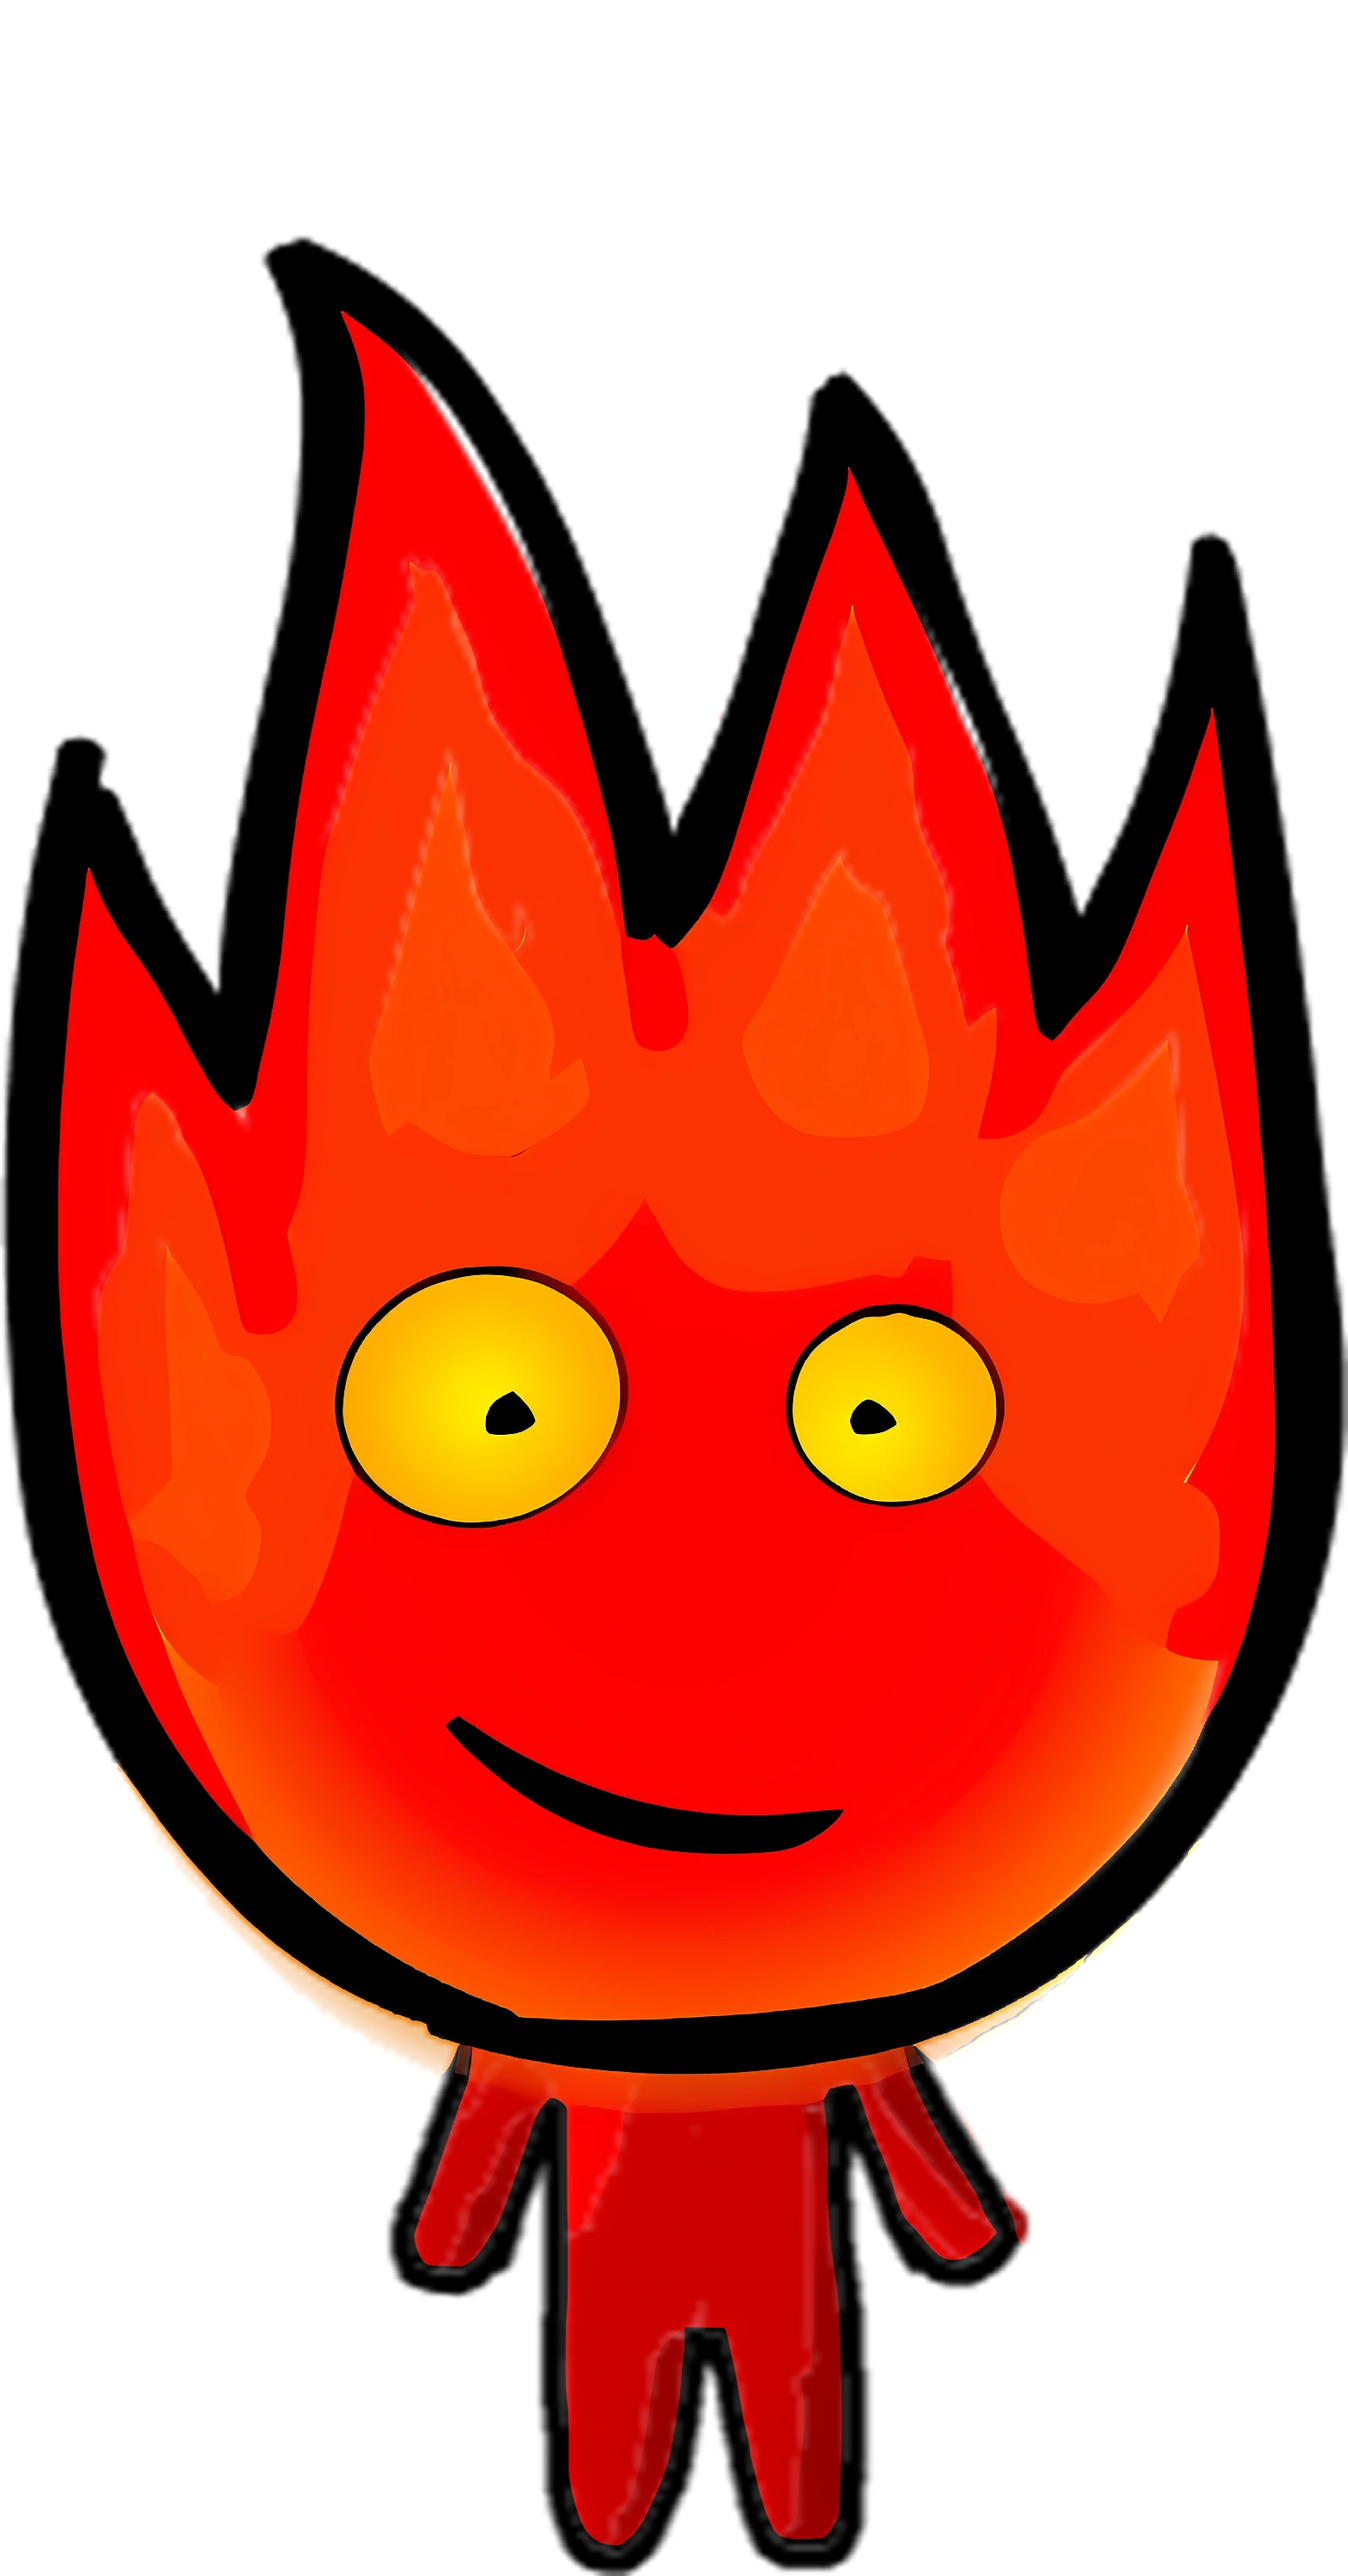
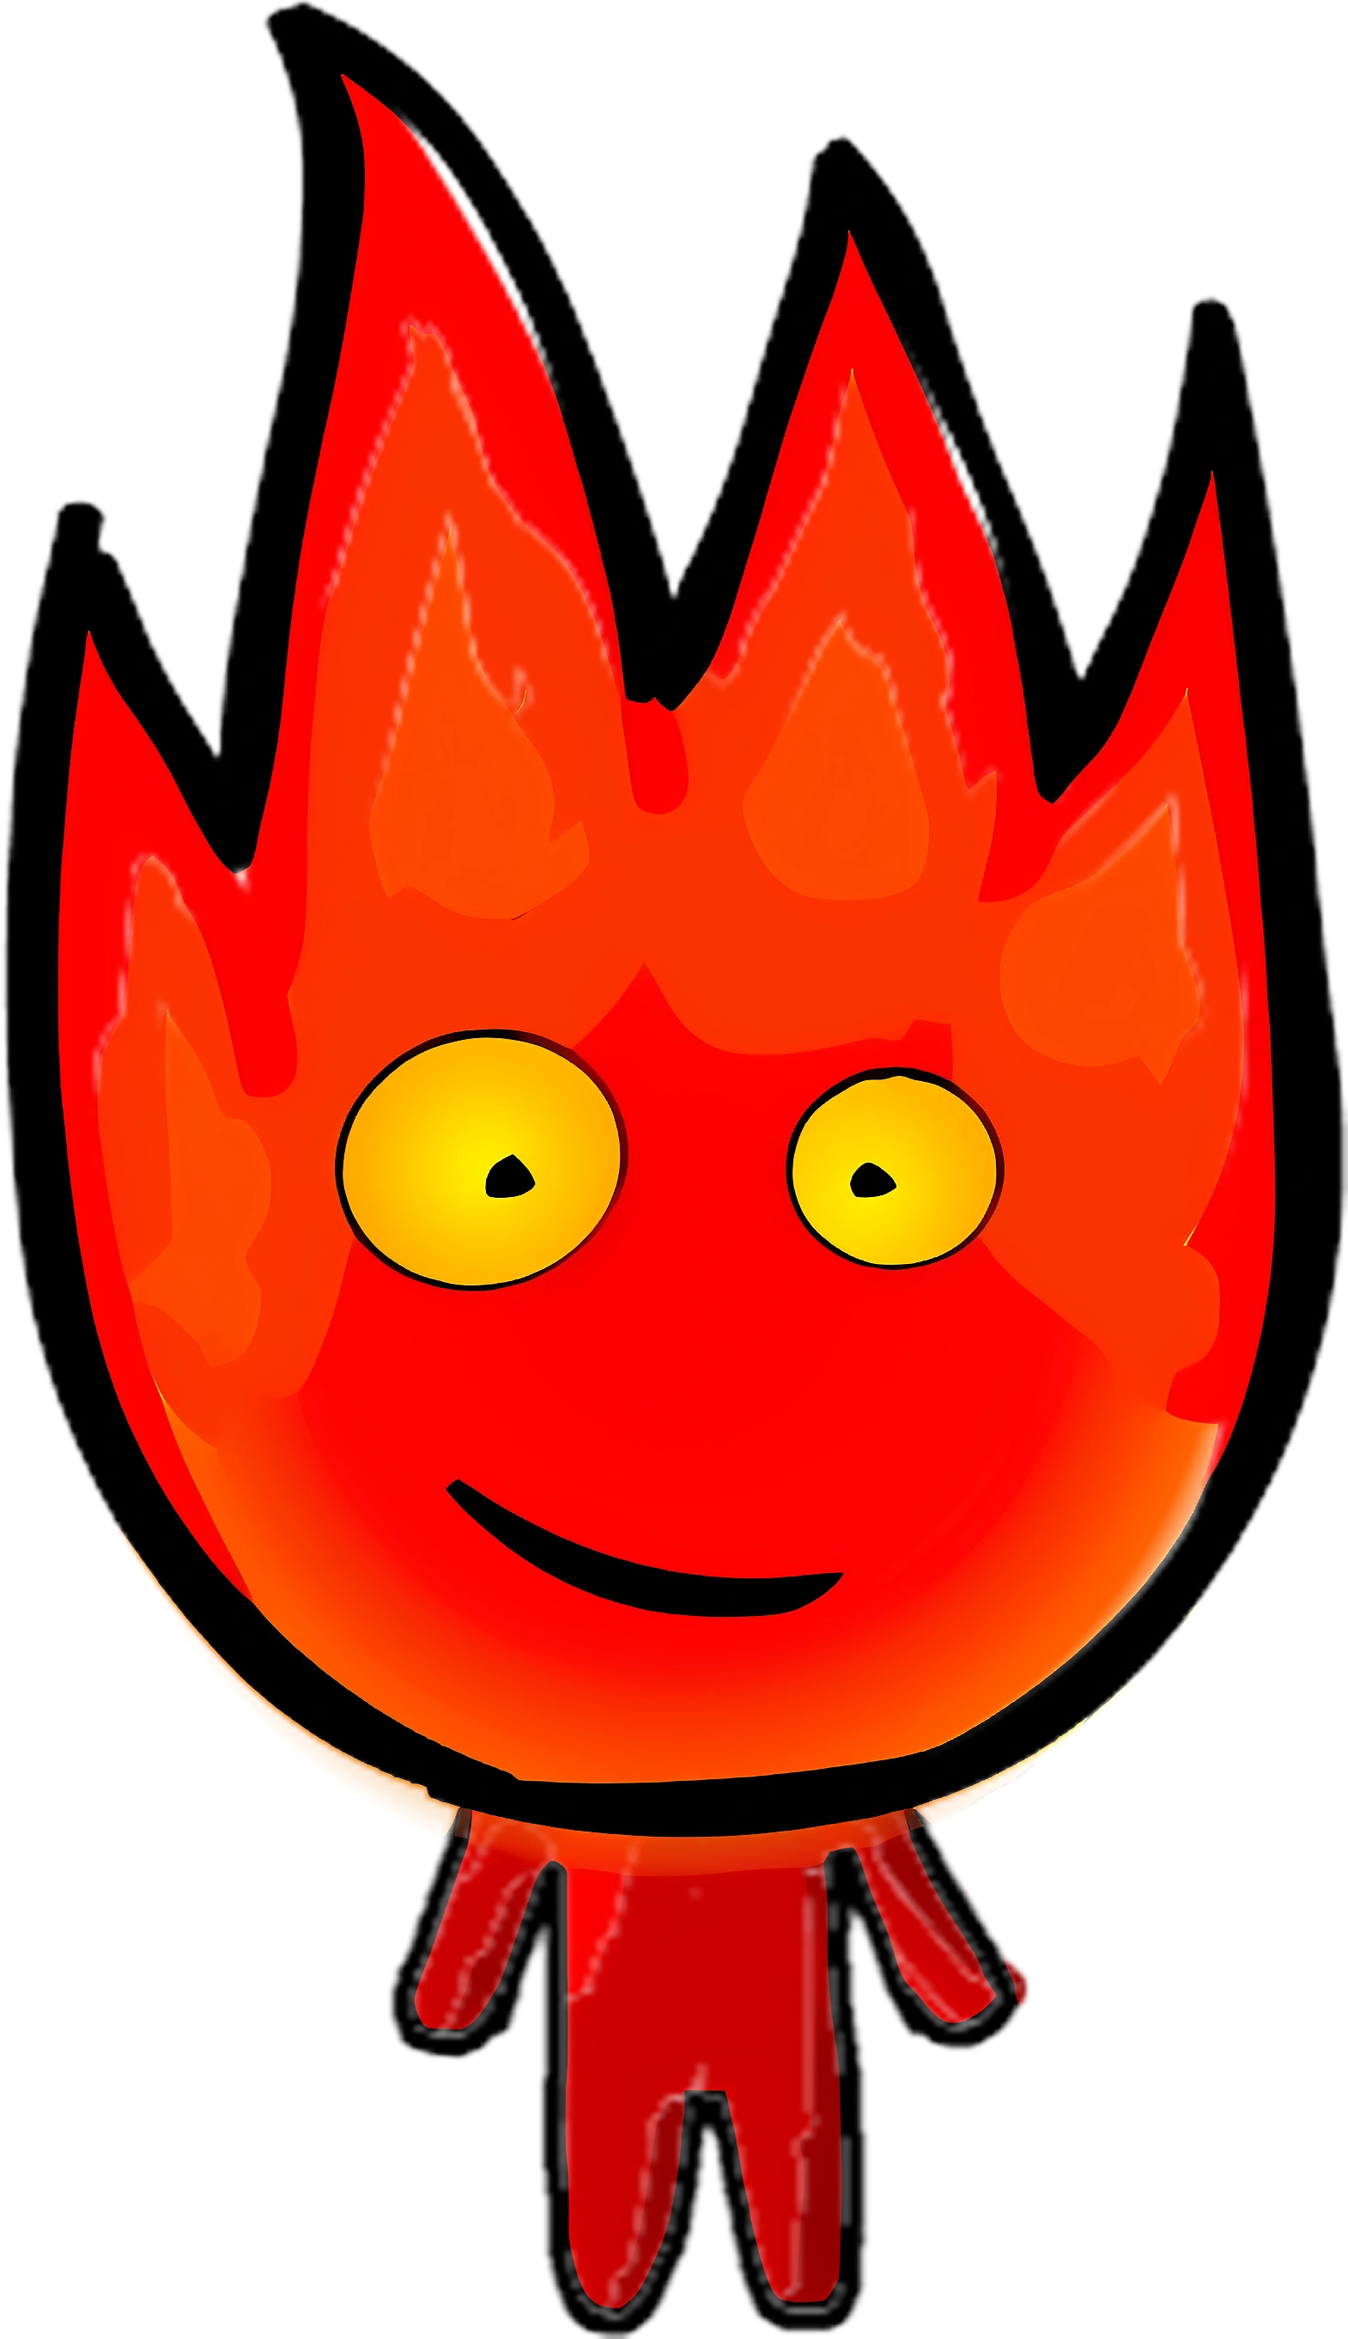
Physics added

diff --git a/main.py b/main.py
@@ -16,6 +16,12 @@ WATER_COLOR = (0, 0, 255)
 GROUND_COLOR = (200, 200, 200)
 WALL_COLOR = (120, 85, 50)
 
+# Physics constants
+GRAVITY = 0.3
+JUMP_HEIGHT_TILES = 4.5  # Desired jump height in tiles
+JUMP_STRENGTH = -(2 * GRAVITY * (JUMP_HEIGHT_TILES * TILE_SIZE))**0.5
+TERMINAL_VELOCITY = 5
+
 # Load images
 fireboy_image = pygame.image.load("resources/pngs/Fireboy-0.png")
 watergirl_image = pygame.image.load("resources/pngs/Watergirl2-0.png")
@@ -28,8 +34,8 @@ tile_image = pygame.image.load("resources/pngs/tile.png")
 background_image = pygame.image.load("resources/pngs/level_background.png")
 
 # Scale images
-fireboy_image = pygame.transform.scale(fireboy_image, (40,60))
-watergirl_image = pygame.transform.scale(watergirl_image, (40,60))
+fireboy_image = pygame.transform.scale(fireboy_image, (35,50))
+watergirl_image = pygame.transform.scale(watergirl_image, (35,50))
 lava_image = pygame.transform.scale(lava_image, (5 * TILE_SIZE, TILE_SIZE))
 water_image = pygame.transform.scale(water_image, (5 * TILE_SIZE, TILE_SIZE))
 green_stuff_image = pygame.transform.scale(green_stuff_image, (5 * TILE_SIZE, TILE_SIZE))
@@ -37,7 +43,6 @@ exit_fire_image = pygame.transform.scale(exit_fire_image, (2.5 * TILE_SIZE, 3 *T
 exit_water_image = pygame.transform.scale(exit_water_image, (2.5 * TILE_SIZE, 3 *TILE_SIZE))
 tile_image = pygame.transform.scale(tile_image, (TILE_SIZE, TILE_SIZE))
 background_image = pygame.transform.scale(background_image, (SCREEN_WIDTH, SCREEN_HEIGHT))
-
 
 # Create game screen
 screen = pygame.display.set_mode((SCREEN_WIDTH, SCREEN_HEIGHT))
@@ -55,13 +60,16 @@ def load_levels(filename):
 levels = load_levels("resources/levels.txt")
 current_level = 0
 
-
 # Draw level
 def draw_level(level, fireboy, watergirl):
+    hazard_positions = []  # Keep track of hazard positions and their full width
     for row_index, row in enumerate(level):
-        for col_index, tile in enumerate(row):
+        col_index = 0
+        while col_index < len(row):
+            tile = row[col_index]
             x = col_index * TILE_SIZE
             y = row_index * TILE_SIZE
+
             if tile == "#":
                 screen.blit(tile_image, (x, y))
             elif tile == "F":
@@ -72,83 +80,191 @@ def draw_level(level, fireboy, watergirl):
                 if watergirl.x == 0 and watergirl.y == 0:
                     watergirl.x = x
                     watergirl.y = y
-            elif tile == "L":
-                screen.blit(lava_image, (x, y))
-            elif tile == "O":
-                screen.blit(water_image, (x, y))
-            elif tile == "G":
-                screen.blit(green_stuff_image, (x, y))
+            elif tile in "LOG":  # Lava, Water, or Green stuff
+                image = None
+                if tile == "L":
+                    image = lava_image
+                elif tile == "O":
+                    image = water_image
+                elif tile == "G":
+                    image = green_stuff_image
+
+                screen.blit(image, (x, y))
+                hazard_positions.append((x, y, tile, 5 * TILE_SIZE))
+                col_index += 4  # Skip the next 4 tiles
             elif tile == "$":
                 screen.blit(exit_fire_image, (x, y + 5))
             elif tile == "%":
                 screen.blit(exit_water_image, (x, y + 5))
 
-    #Draw characters
-    screen.blit(fireboy_image, (fireboy.x, fireboy.y))
-    screen.blit(watergirl_image, (watergirl.x, watergirl.y))
+            col_index += 1
+    return hazard_positions
+
+
+class Player:
+    def __init__(self, x, y, width, height, image, element_type):
+        self.rect = pygame.Rect(x, y, width, height)
+        self.x = x
+        self.y = y
+        self.dx = 0  # Horizontal velocity
+        self.dy = 0  # Vertical velocity
+        self.image = image
+        self.element_type = element_type  # "fireboy" or "watergirl"
+        self.on_ground = False  # To check if player is on the ground or platform
+
+    def move(self, level):
+        """Apply movement and collisions."""
+        self.rect.x += self.dx  # Apply horizontal movement
+        self.on_ground = False  # Reset on_ground flag at the start of the move
+
+        # Check for horizontal collisions with all tiles
+        for row_index, row in enumerate(level):
+            for col_index, tile in enumerate(row):
+                if tile == "#":  # Solid tile
+                    tile_rect = pygame.Rect(col_index * TILE_SIZE, row_index * TILE_SIZE, TILE_SIZE, TILE_SIZE)
+                    if self.rect.colliderect(tile_rect):  # Horizontal collision
+                        if self.dx > 0:  # Moving right
+                            self.rect.right = tile_rect.left
+                        elif self.dx < 0:  # Moving left
+                            self.rect.left = tile_rect.right
+
+        # Apply gravity and vertical movement
+        self.dy += GRAVITY
+        if self.dy > TERMINAL_VELOCITY:
+            self.dy = TERMINAL_VELOCITY
+        self.rect.y += self.dy
+
+        # Vertical collision (ground and liquid collisions)
+        for row_index, row in enumerate(level):
+            col_index = 0
+            while col_index < len(row):
+                tile = row[col_index]
+                x = col_index * TILE_SIZE
+                y = row_index * TILE_SIZE
+
+                if tile == "#":
+                    tile_rect = pygame.Rect(x, y, TILE_SIZE, TILE_SIZE)
+                    if self.rect.colliderect(tile_rect):
+                        if self.dy > 0:  # Falling
+                            self.rect.bottom = tile_rect.top
+                            self.dy = 0
+                            self.on_ground = True
+                        elif self.dy < 0:  # Jumping
+                            self.rect.top = tile_rect.bottom
+                            self.dy = 0
+                elif tile in "LOG":  # Handle hazards as 5-tile-wide platforms
+                    hazard_rect = pygame.Rect(x, y, 5 * TILE_SIZE, TILE_SIZE)
+                    if self.rect.colliderect(hazard_rect):
+                        if tile == "O" and self.element_type == "watergirl":  # Watergirl can stand on water
+                            if self.dy > 0:
+                                self.rect.bottom = hazard_rect.top
+                                self.dy = 0
+                                self.on_ground = True
+                            elif self.dy < 0:
+                                self.rect.top = hazard_rect.bottom
+                                self.dy = 0
+                        elif tile == "L" and self.element_type == "fireboy":  # Fireboy can stand on lava
+                            if self.dy > 0:
+                                self.rect.bottom = hazard_rect.top
+                                self.dy = 0
+                                self.on_ground = True
+                            elif self.dy < 0:
+                                self.rect.top = hazard_rect.bottom
+                                self.dy = 0
+                        elif tile == "G":
+                            if self.dy < 0:
+                                self.rect.top = hazard_rect.bottom
+                                self.dy = 0
+                    col_index += 4  # Skip the next 4 tiles since we handled the full width
+                col_index += 1
+
+        return self.on_ground
+
+    def jump(self):
+        """Make the player jump."""
+        if self.on_ground:  # Only allow jump when on the ground
+            self.dy = JUMP_STRENGTH
+
+    def check_hazards(self, hazard_positions, player_type):
+        """Check for hazards and handle interactions."""
+        for x, y, hazard_type, width in hazard_positions:
+            hazard_rect = pygame.Rect(x, y, width, TILE_SIZE)
+            if self.rect.colliderect(hazard_rect):
+                if hazard_type == "L":  # Lava
+                    if player_type == "fireboy":
+                        return False  # Safe for Fireboy
+                    return True  # Watergirl dies
+                elif hazard_type == "O":  # Water
+                    if player_type == "watergirl":
+                        return False  # Safe for Watergirl
+                    return True  # Fireboy dies
+                elif hazard_type == "G":  # Green liquid
+                    return True  # Both die
+        return False
+
+    def draw(self, screen):
+        # Draw the image at the player's position
+        screen.blit(self.image, (self.rect.x, self.rect.y))
+
 
 # Main game loop
 def main():
     global current_level
-    fireboy = pygame.Rect(0, 0, 40, 60)
-    watergirl = pygame.Rect(0, 0, 40, 60)
+    fireboy = Player(0, 0, 35, 50, fireboy_image, "fireboy")
+    watergirl = Player(0, 0, 35, 50, watergirl_image, "watergirl")
     level = levels[current_level]
 
-    fireboy_speed = 5
-    watergirl_speed = 5
+    fireboy_speed = 4
+    watergirl_speed = 4
 
     while True:
+        draw_level(level, fireboy.rect, watergirl.rect)
         for event in pygame.event.get():
             if event.type == pygame.QUIT:
                 pygame.quit()
                 sys.exit()
 
+        # Update positions
+        fireboy.move(level)
+        watergirl.move(level)
+
         # Controls
         keys = pygame.key.get_pressed()
+        fireboy.dx = 0
+        watergirl.dx = 0
+
         # Fireboy movement
         if keys[pygame.K_LEFT]:
-            fireboy.x -= fireboy_speed
+            fireboy.dx = -fireboy_speed
         if keys[pygame.K_RIGHT]:
-            fireboy.x += fireboy_speed
-        if keys[pygame.K_UP]:
-            fireboy.y -= fireboy_speed
-        if keys[pygame.K_DOWN]:
-            fireboy.y += fireboy_speed
+            fireboy.dx = fireboy_speed
+        if keys[pygame.K_UP] and fireboy.on_ground:  # Jump if on ground
+            fireboy.jump()
+
         # Watergirl movement
         if keys[pygame.K_a]:
-            watergirl.x -= watergirl_speed
+            watergirl.dx = -watergirl_speed
         if keys[pygame.K_d]:
-            watergirl.x += watergirl_speed
-        if keys[pygame.K_w]:
-            watergirl.y -= watergirl_speed
-        if keys[pygame.K_s]:
-            watergirl.y += watergirl_speed
+            watergirl.dx = watergirl_speed
+        if keys[pygame.K_w] and watergirl.on_ground:  # Jump if on ground
+            watergirl.jump()
+
+        screen.blit(background_image, (0, 0))  # Draw the background image
+        hazard_positions = draw_level(level, fireboy.rect, watergirl.rect)
 
         # Check for hazards
-        for row_index, row in enumerate(level):
-            for col_index, tile in enumerate(row):
-                x = col_index * TILE_SIZE
-                y = row_index * TILE_SIZE
-                rect = pygame.Rect(x, y, TILE_SIZE, TILE_SIZE)
-
-        # Check for exits
-        if tile == "E" and fireboy.colliderect(rect):
-            print("Fireboy reached the exit!")
-        if tile == "Q" and watergirl.colliderect(rect):
-            print("Watergirl reached the exit!")
-            current_level += 1
-            if current_level >= len(levels):
-                print("Game Complete!")
-                pygame.quit()
-                sys.exit()
-            level = levels[current_level]  # Load next level
+        if fireboy.check_hazards(hazard_positions, "fireboy"):
+            print("Fireboy died!")
+            return
+        if watergirl.check_hazards(hazard_positions, "watergirl"):
+            print("Watergirl died!")
+            return
 
         # Draw everything
-        screen.blit(background_image, (0, 0))  # Draw the background image
-        draw_level(level, fireboy, watergirl)
+        fireboy.draw(screen)
+        watergirl.draw(screen)
         pygame.display.flip()
         clock.tick(FPS)
-
 
 # Start the game
 if __name__ == "__main__":
